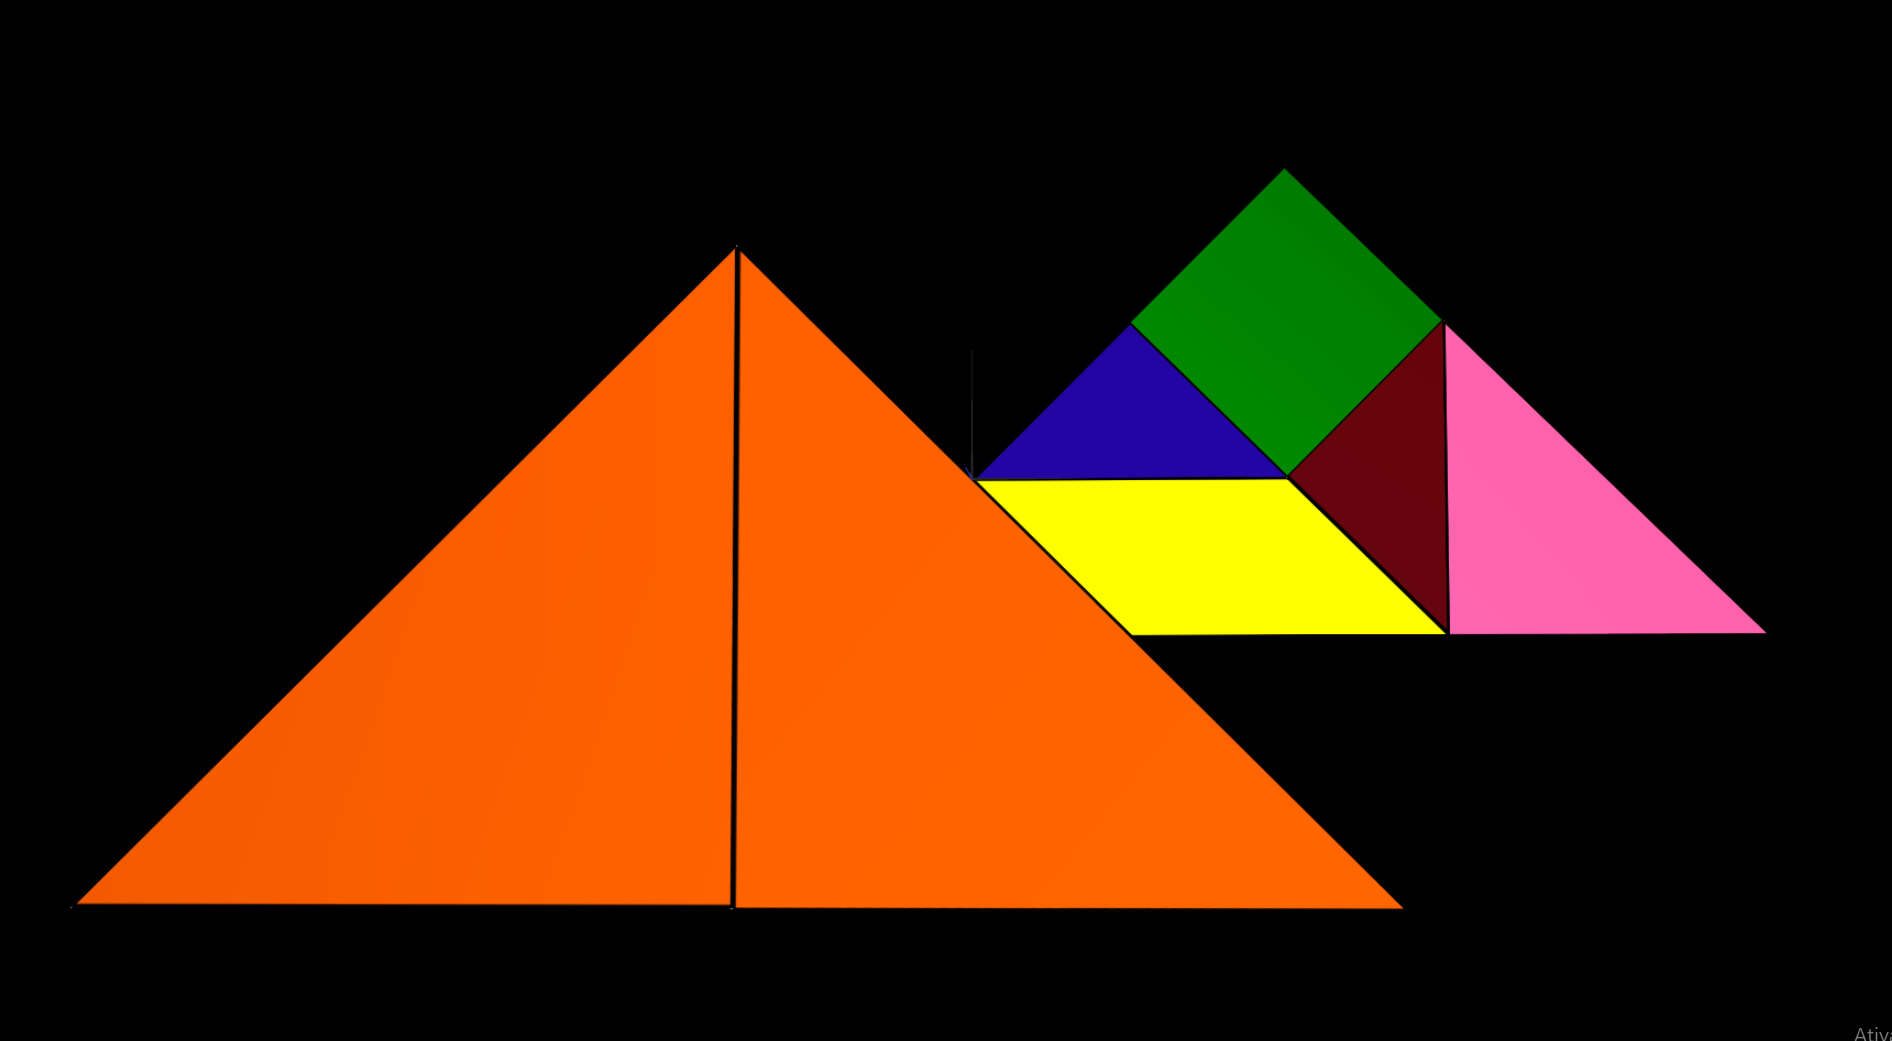
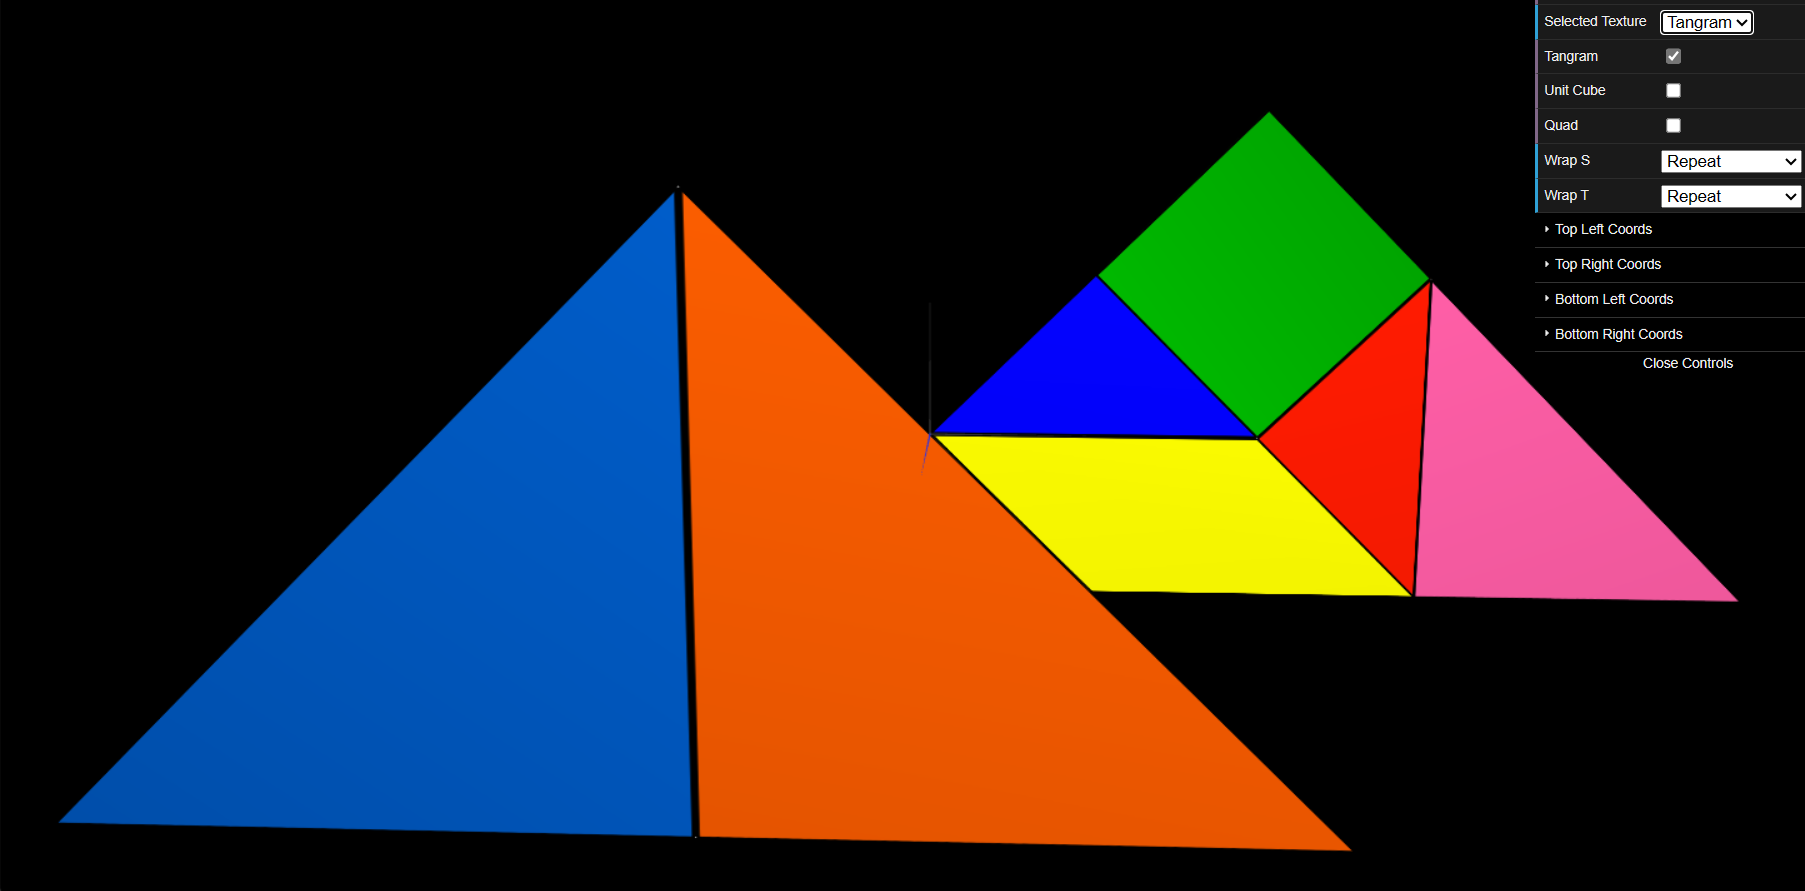
TP4 Done

diff --git a/tp4/MyTangram.js b/tp4/MyTangram.js
@@ -43,7 +43,7 @@ export class MyTangram extends CGFobject {
             // Purple Triangle
             this.scene.pushMatrix()
             this.scene.translate(1, 0, 0)
-            this.scene.setDiffuse(1,0,0,0)
+            this.scene.setDiffuse(0,0,1,0)
             this.triangleSmall2.display()
             this.scene.popMatrix()
 
